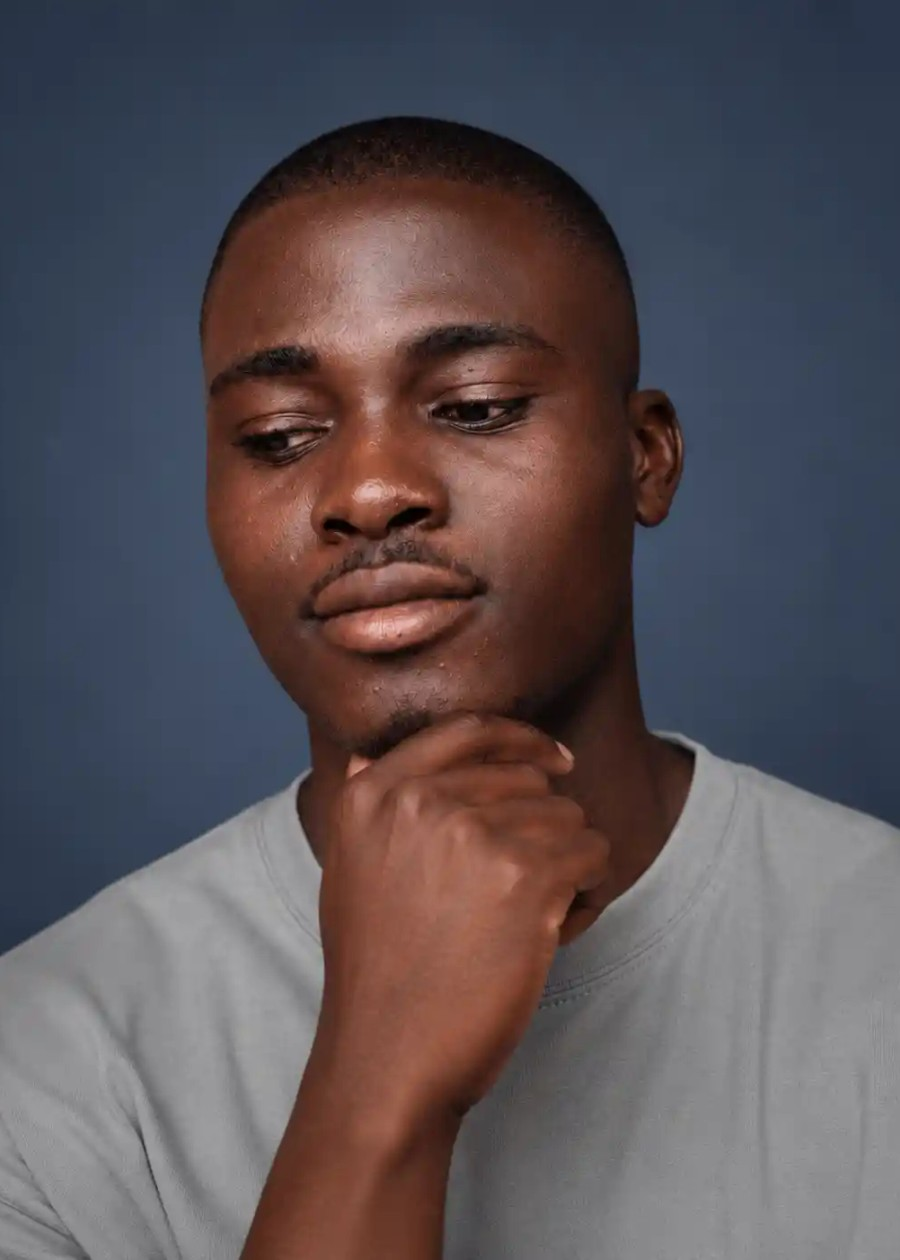
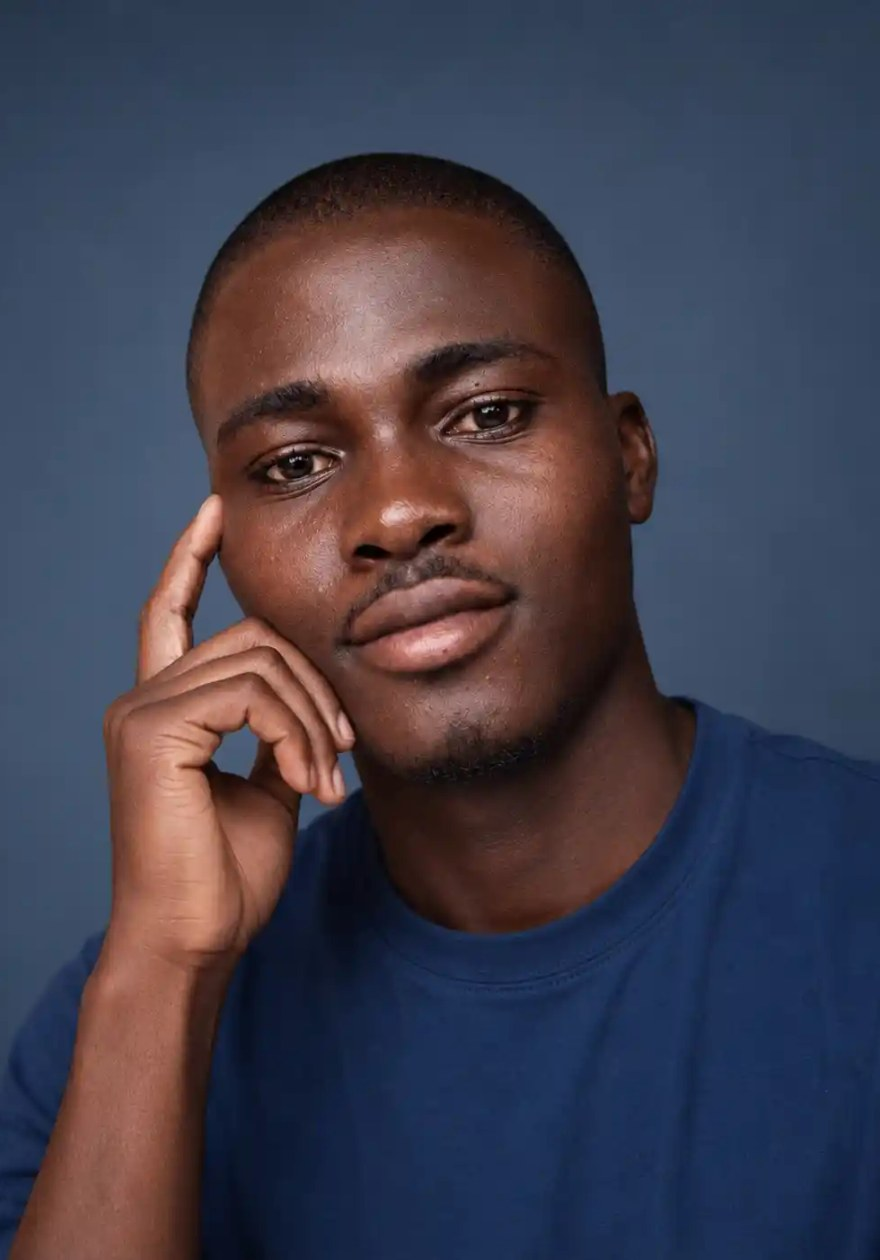
feat(og): feature blue-shirt portrait in the OG card
public/og-photo.jpg is now generated from public/photos/on-blue-shirt.webp. satori (next/og) cannot decode WebP, so the OG route reads a JPEG derivative rather than the WebP source directly.

Add scripts/generate-og-photo.mjs (pnpm og:photo) to regenerate the derivative, cropped 880x1260 to match the card's 440x630 photo panel at 2x.

Verified: next build, seo:check, tsc --noEmit, eslint (0 warnings), 39/39 vitest, and /opengraph-image renders 200 image/png with the new portrait.

diff --git a/src/app/opengraph-image.tsx b/src/app/opengraph-image.tsx
@@ -11,6 +11,9 @@ export const size = { width: 1200, height: 630 };
 export const contentType = "image/png";
 
 export default async function OpenGraphImage() {
+  // og-photo.jpg is the JPEG derivative of public/photos/on-blue-shirt.webp.
+  // satori (next/og) cannot decode WebP, so the route reads the derivative —
+  // regenerate it with `pnpm og:photo` after replacing the source portrait.
   const photoBuffer = await readFile(
     path.join(process.cwd(), "public", "og-photo.jpg"),
   );
